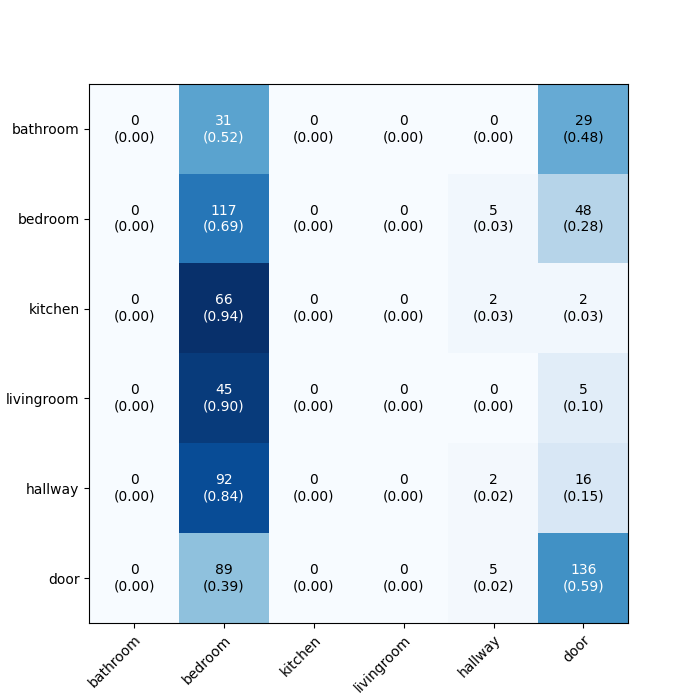
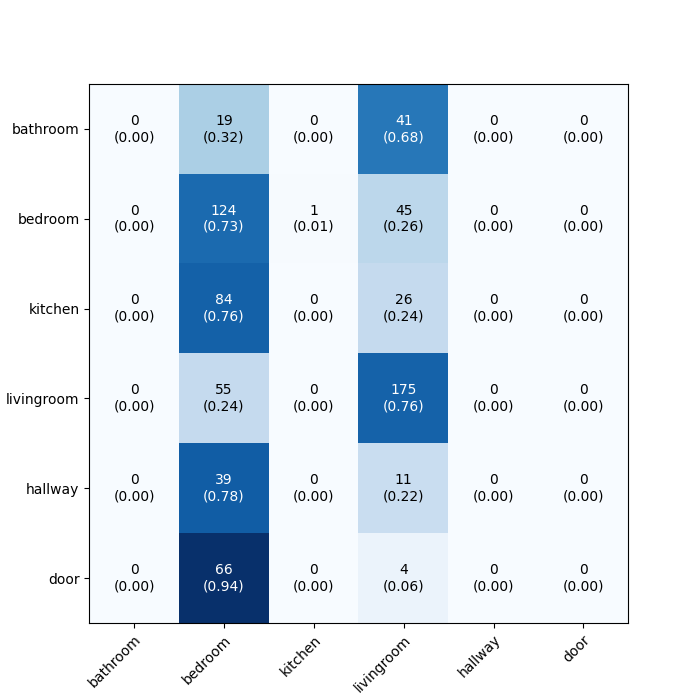
update tiny

diff --git a/TinyML/room_classifier/room_tflite_test.py b/TinyML/room_classifier/room_tflite_test.py
@@ -46,6 +46,7 @@ def test():
 
     #model_path = "./home_model.tflite"
     model_path = "./home_default_model.tflite"
+    model_path = "./home_16_size_model.tflite"
 
     # bathroom: 0, bedroom:1, kitchen:2, livingroom:3, hallway:4, door:5
     labels=['bathroom','bedroom', 'kitchen','livingroom', 'hallway', 'door']
@@ -96,10 +97,14 @@ def test2():
     data_folder = "./"
     data_folder_image = "./room_samples_0831/"
     data_folder_image = "./room_testset/2/"  # kitchen
+    data_folder_image = "./room_testset/5/"  # door
+    data_folder_image = "./room_testset/1/"  # bed
+    data_folder_image = "./room_testset/3/"  # livingroom
 
 
     #model_path = "./home_model.tflite"
     model_path = "./home_default_model.tflite"
+    model_path = "./home_16_size_model.tflite"
 
     # bathroom: 0, bedroom:1, kitchen:2, livingroom:3, hallway:4, door:5
     labels=['bathroom','bedroom', 'kitchen','livingroom', 'hallway', 'door']
@@ -214,7 +219,10 @@ def get_confusion_matrix():
     class_names=['bathroom','bedroom', 'kitchen','livingroom', 'hallway', 'door']
 
     
-    for fn in os.listdir(path):
+    for room in class_names:
+        print(dir + '/' + room)
+        fn = str(class_names.index(room))
+
         if os.path.isdir(dir + '/' + fn):
             print(fn)
             test_dir = dir + '/' + fn
@@ -248,7 +256,7 @@ def get_confusion_matrix():
     print('y_test:', y_test)
 
     plt.figure()
-    mat = confusion_matrix(y_test, y_pred)
+    mat = confusion_matrix(y_test, y_pred, labels=class_names)
     cm = plot_confusion_matrix(conf_mat=mat, class_names=class_names, show_normed=True, figsize=(7,7))
     plt.show()
     plt.savefig("room_cm.png")
@@ -315,6 +323,7 @@ def predict(file, model, to_class, width, height):
 def test_confusion_matrix(file_dir):
         #model_path = "./home_model.tflite"
     model_path = "./home_default_model.tflite"
+    model_path = "./home_16_size_model.tflite"
 
     # bathroom: 0, bedroom:1, kitchen:2, livingroom:3, hallway:4, door:5
     labels=['bathroom','bedroom', 'kitchen','livingroom', 'hallway', 'door']
@@ -362,7 +371,7 @@ def test_confusion_matrix(file_dir):
     return predict_res
 
 
-# test()
-test2()
+#test()
+#test2()
 
-#get_confusion_matrix()
+get_confusion_matrix()
